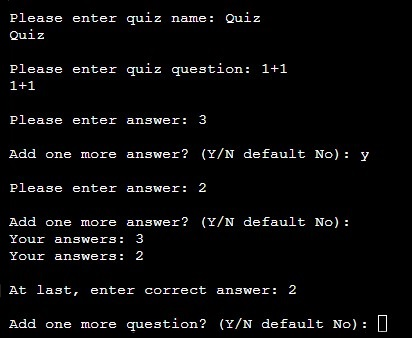
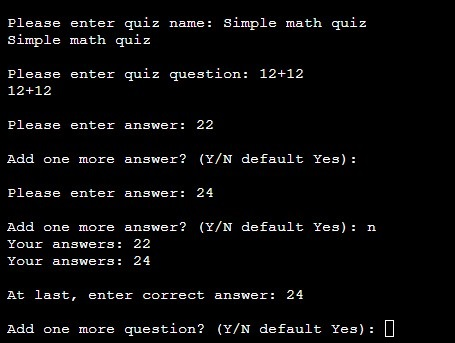
Add content to readme

diff --git a/README.md b/README.md
@@ -15,7 +15,7 @@ It is fine to answer with both uppercase and lowercase letters. If the user acci
 
 ### Create a quiz
 When the user chooses to create a quiz, the app will ask the user to write the first question. After that, it asks the user to write a response. For each answer the user writes, it will ask if the user wants to add another answer. When the user chooses not to add more answers, it will ask which of the answers was correct, and then ask if the user wants to add another question.
-When the user no longer wants to add more questions, it will save the quiz to the json file.
+When the user no longer wants to add more questions, it will save the quiz to the json file. When the user plays in Python Terminal in herokuapp, the quiz will be saved temporarily.
 
 If the user chooses a too short name for his quiz or an abbreviated question/answer, he will be asked again to make another attempt with a specified minimum number of letters.
 If the user accidentally fills in blanks, either before or after or only, these will be ignored. In the case of an insufficient answer, the user will be asked to try again.
@@ -37,12 +37,13 @@ After the user has answered a question, the app will print the next question and
 - GitHub
 - GitHub Pages
 - Gitpod
+- Heroku
 
 ## Testing
  CI Python Linter
 ## ![CI Python Linter](assets/images/cl-python-linter.jpg)
 
-### **Manual testing**
+### Manual testing
 |Command input     |Expected command response                |Results              |
 |----------------|-------------------------------|-----------------------------|
 |**Lode command-line application**                |Please choose c or p:         |Pass |
@@ -57,6 +58,7 @@ After the user has answered a question, the app will print the next question and
 |- Enter blanks |Please enter a name that is at least 2 characters long.         |Pass |
 |- Enter 1 character and blanks   |Please enter a name that is at least 2 characters long. |Pass |
 |- Enter blanks and 1 character  |Please enter a name that is at least 2 characters long. |Pass |
+|- Enter  a quiz name that is already in storage    |Overwrites the existing quiz   |Pass |
 |           |     | |
 |**Please enter quiz question:** |          | |
 |- Enter blanks |Please enter a question that is at least 3 characters long.      |Pass |
@@ -68,17 +70,18 @@ After the user has answered a question, the app will print the next question and
 |- Enter blanks |Please enter an answer that is at least 1 character long.      |Pass |
 |- Enter  a valid answer|Add one more answer?|Pass |
 |           |     | |
-|**Add one more answer? (Y/N default No):** |          | |
-|- Enter blanks |Yes: Add one more answer? (Y/N default No):    |Pass |
-|- Enter anything else or nothing |Prints out the previously written answers and , At last, enter correct answer:|Pass |
+|**Add one more answer? (Y/N default Yes):** |          | |
+|- Enter blanks |Yes: Add one more answer? (Y/N default Yes):    |Pass |
+|- Enter Y, y, anything else or nothing |Prints: Please enter answer: |Pass |
+|- Enter n else N |Prints out the previously written answers and , At last, enter correct answer:|Pass |
 |           |     | |
 |**At last, enter correct answer:**|          | |
 |- Enter blanks or something not in previously answered list |At last, enter correct answer:   |Pass |
 |- Enter correct answer or correct answer and blanks|Add one more question? (Y/N default No):|Pass|
 |           |     | |
-|**Add one more question? (Y/N default No):**|          | |
-|- y or Y |Please enter quiz question:  |Pass |
-|- Enter anything else or nothing| Quits game and saves quiz game to json file.|Pass|
+|**Add one more question? (Y/N default Yes):**|          | |
+|- Enter y, Y, anything else or nothing |Please enter quiz question:  |Pass |
+|- Enter n or N | Quits game and saves quiz game to json file.|Pass|
 |           |     | |
 |**Please choose quiz to play: p** |          | |
 |- Enter p or P |Prints out all quizzes to choose from.     |Pass |
